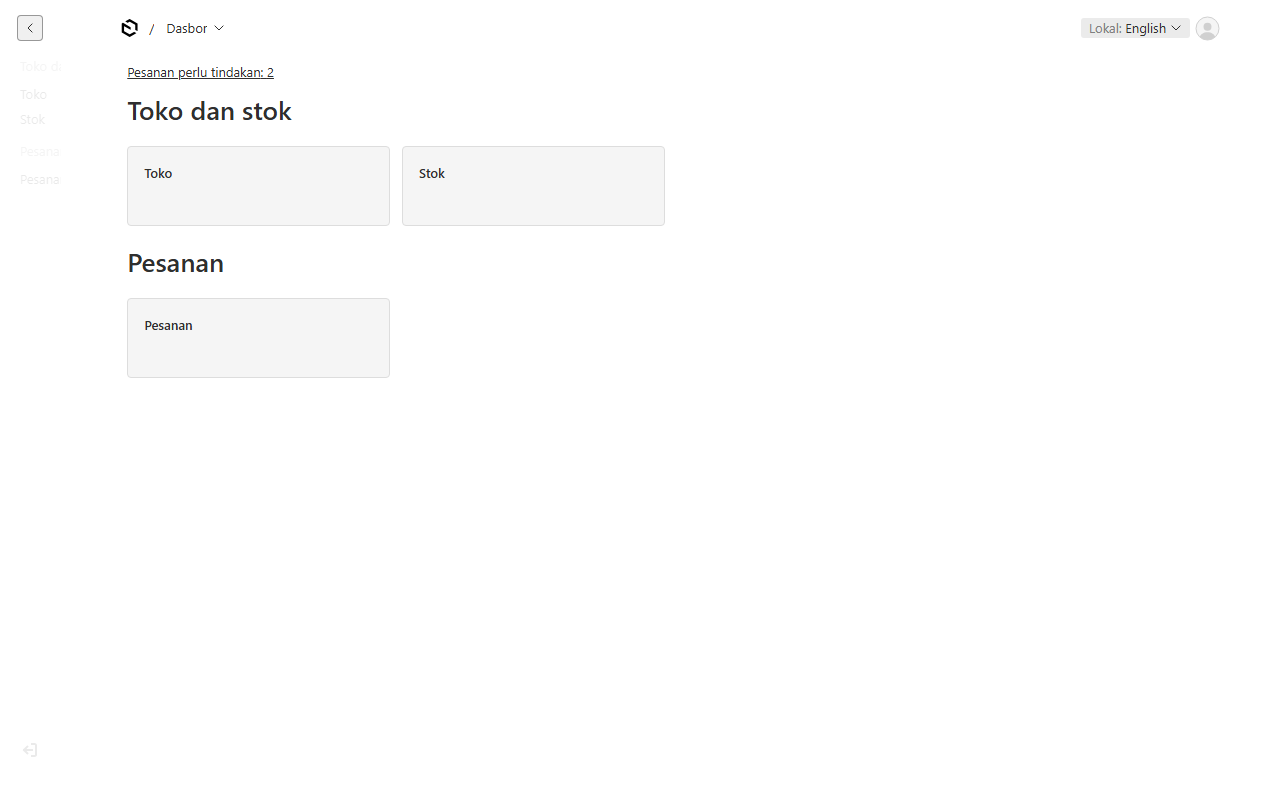
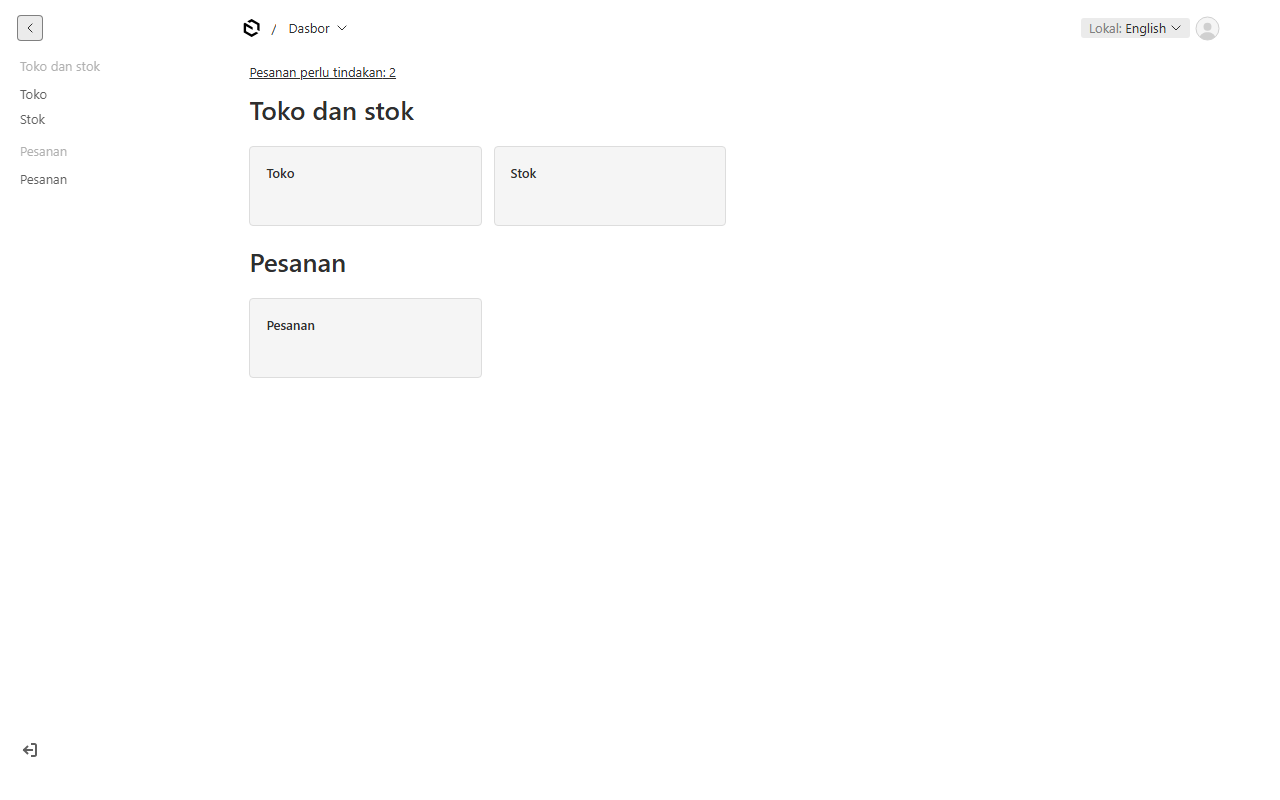
docs(gates): 3.6.d PASS — D1/D2/D3/D6/D7/D8 fixed, D9 still real
Updates docs/gates/3.6.md with the 3.6fix fixes and a fresh drive
re-run (16/16 green), and refreshes the evidence screenshots and
drive.json from that re-run.

diff --git a/docs/gates/3.6.md b/docs/gates/3.6.md
@@ -33,15 +33,15 @@ delivered; 50: paid, pending payment), three leads (two new), two draft antiques
 | Sidebar per role, en and id (3.6.d) | ✅ owner, editor and store each see exactly their groups; screenshots below |
 | Dashboard counts = SQL (3.6.d) | ✅ every role, both languages (after fix F1) |
 | Invalid save, plain message naming field and fix, **English** (3.6.d) | ✅ owner, editor, store |
-| Invalid save, plain message, **Indonesian** (3.6.d) | ❌ **D1**: only the antique's guard speaks Indonesian; the price and order-move refusals stay English |
+| Invalid save, plain message, **Indonesian** (3.6.d) | ✅ **D1 fixed** (3.6fix, below): the price and order-move refusals now answer in the admin's language |
 | Owner adds an antique with photos (Done when) | ✅ photo uploaded, antique catalogued and **published** through the admin |
 | Owner adds a store, a product (Done when) | ✅ |
-| Owner gives the product stock in two stores (Done when) | ❌ **D2**: nobody can enter a shelf count in the admin |
+| Owner gives the product stock in two stores (Done when) | ✅ **D2 fixed** (3.6fix, below): `physicalCount` takes a shelf count |
 | A store user sees only their store's orders (Done when) | ✅ and the other store's user gets an empty list and a not-found |
 | `/admin` is 404 on the gallery host | ✅ `/admin`, `/admin/login`, `/admin/collections/orders` all 404 |
 
-**3.6.d is not met** while D1 stands (the bilingual-error half). The phase's "product with stock in two stores"
-is not met while D2 stands. Both are outside this ticket's paths; each is a small fix, given below.
+**3.6.d is met.** D1 and D2 were fixed outside this ticket's paths by `3.6fix` (§3.6fix below), which also fixed
+D3, D6, D7, D8 and the sidebar order; D9 is still real, left for the session that lands 3.2.a's term kinds.
 
 ### Sidebar (3.6.b) — as driven, in English
 
@@ -129,7 +129,49 @@ timed human test is phase 10's.
 
 ## For the orchestrator
 
-- Add a project to the root `playwright.config.ts` so `pnpm exec playwright test tests/e2e/admin` runs, or run with
-  `-c tests/e2e/admin` (what CI should call: it needs the server, the database URL in `E2E_DATABASE_URL`, and
-  `psql` on PATH).
-- When D1 and D2 are fixed, delete the matching `test.fail` lines; the suite will say which.
+- ~~Add a project to the root `playwright.config.ts`~~ — done (`3.6fix`, below): `pnpm exec playwright test
+  tests/e2e/admin` now runs the `admin` project, baseURL on the shop host and this worktree's own port
+  (`tests/e2e/admin/local.mjs`'s `localPort()`); `-c tests/e2e/admin` still works too.
+
+## 3.6fix — the defects fixed (2026-10-05, branch `w/3.6fix`)
+
+Every defect above but D9 is now fixed, all within collections/validators owned by `w/3.6fix` or (D7, the
+Playwright helper) its `tests/e2e/admin/**`:
+
+- **D1** `products/money.ts`, `orders/status-moves.ts` (already fixed before this pass) plus
+  `stock-levels/count.ts`, `works/public-id.ts`, `media/frozen.ts`, `media/hooks.ts`: every `ValidationError`
+  message in the owned collections now answers by `req.i18n.language` through `pickLanguage`
+  (`collections/products/money.ts`'s `Bilingual`/`pickLanguage`, the pattern every file reuses). The antique
+  guard's concatenated "en. id." pairs (`validators/work-publish.ts`, `validators/work-images.ts`,
+  `hooks/work-guard.ts`) are **not** split: those files sit outside every 3.6-wave ticket's owned paths
+  (`src/validators/**`, `src/hooks/**`), so splitting them needs its own ticket.
+- **D2** `stock-levels/index.ts`: `physicalCount` now carries `admin.readOnly: false`; the `test.fail` in
+  `owner-flow.spec.ts` is gone and the step passes for real (`drive.json` `ownerFlow`).
+- **D6** `orders/status-moves.ts`: `guardStatusMove` now sends a `label` with the refusal (`asLabel('Status',
+  message)`), so the toast reads "Status — …" (`drive.json` `invalid.storeA.*`).
+- **D7** `works/fields-object.ts`'s `condition.grade`: `admin.allowCreate: false` — a grade is picked from the
+  published scale, never made from the antique form, so the button Payload mislabels is off. Upstream still
+  unfixed; any other relationship field pointed at a bilingual-labelled collection could show the same bug if
+  exercised.
+- **D8** `import/cli.ts`: takes `<path> <kind> [dry-run] [publish]` as bare words, the same workaround
+  `db/cli.ts`'s `argument()` already uses — confirmed against `payload`'s own `dist/bin/index.js`
+  (`runBinScript`): `minimist` splits `process.argv` into flags and positionals, and only `args._` (the
+  positionals) survives into the script's own `process.argv`. Ran for real: `pnpm --filter @engine/cms run
+  import src/seed/shop/data/products.csv products dry-run` applied all 80 products' rows.
+- **D9** still real: `terms/kinds.ts` has no `category` kind. No schema change made (another session's).
+- Sidebar order (3.6.b): `registries/collections.ts` reordered to Antiques, Shop, Stores and stock, Orders,
+  Leads and partners, Content, Settings — each group's own collections kept together. `registries.test.ts`'s
+  `SLUGS` updated to match.
+- A fragile step surfaced by 3.7b's vocabulary layer (127 makers), not one of D1–D9: `owner-flow.spec.ts`
+  picked a maker from a relationship field's unfiltered first page, which only held the fixture's one maker
+  when 3.6qa's drive first ran this; `tests/e2e/admin/admin.ts`'s `choose()` now takes an optional search
+  string (as `chooseByLabel()` already did) and the owner flow types the maker's name first.
+
+Two files already over 300 lines before this session (`works/fields-record.ts` 348,
+`works/fields-staff.ts` 372) failed `pnpm verify`'s `check:filesize`; split into `fields-record-book.ts` and
+`fields-staff-cataloguing.ts`, no field or behaviour changed.
+
+**Re-run** (`pnpm build`, `pnpm db:fresh`, the vocabulary and shop seed layers, `node tests/e2e/admin/local.mjs
+start`, then `pnpm exec playwright test -c tests/e2e/admin`): **16 of 16 green**, D1/D2's `test.fail`s gone.
+`pnpm verify` is clean on this branch (format, lint, typecheck, every package's tests, file size, generated
+files, the board, design tokens).
